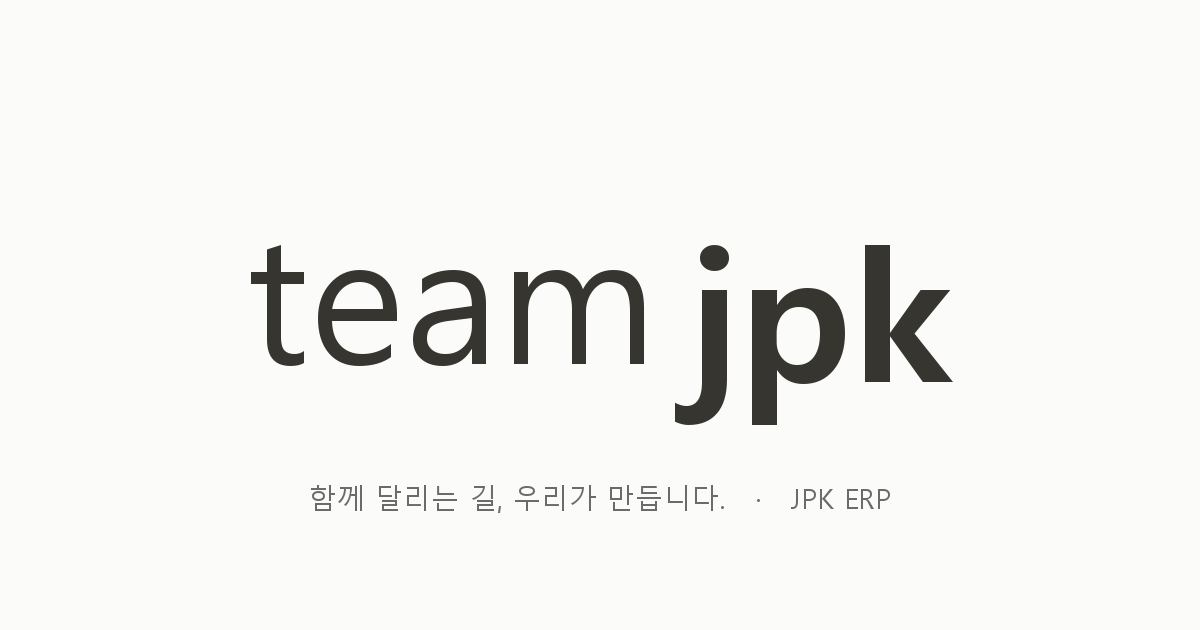
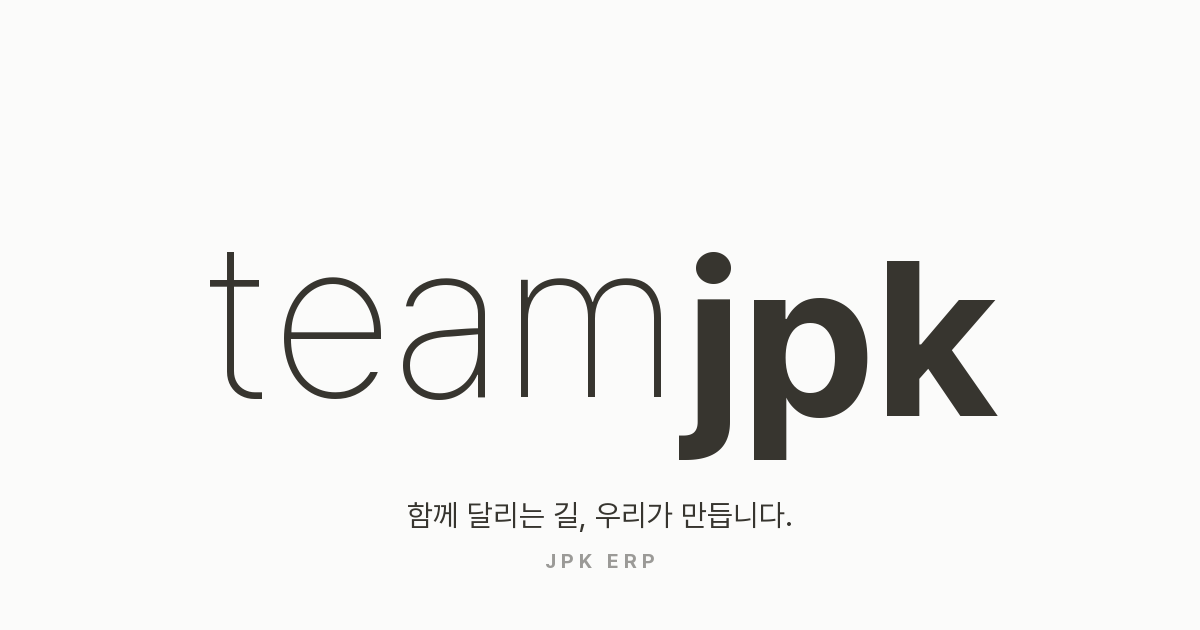
CI 규격 재적용 — Pretendard + 3줄 구조
- OG/아이콘을 로컬 Pretendard(Thin+Bold) 로 재생성
- teamjpk 한단어 (team 200 + jpk 700, 간격 없음)
- 보조 3줄 구조: teamjpk / 함께 달리는 길... / J P K  E R P
- .gitignore: static/fonts/ 제외 (로컬 생성용)

Changed region(s): [[0.185, 0.3921, 0.8325, 0.754], [0.2467, 0.754, 0.74, 0.8444], [0.4625, 0.8746, 0.555, 0.9048]]

diff --git a/templates/pages/m/login.html b/templates/pages/m/login.html
@@ -30,7 +30,7 @@
       font-size: 34px; line-height: 1; color: #37352f;
       display: flex; align-items: baseline;
     }
-    .ci-logo .team { font-weight: 200; letter-spacing: -0.02em; margin-right: 3px; }
+    .ci-logo .team { font-weight: 200; letter-spacing: -0.02em; }
     .ci-logo .jpk { font-weight: 700; letter-spacing: -0.02em; }
     .ci-motto {
       margin-top: 10px;
